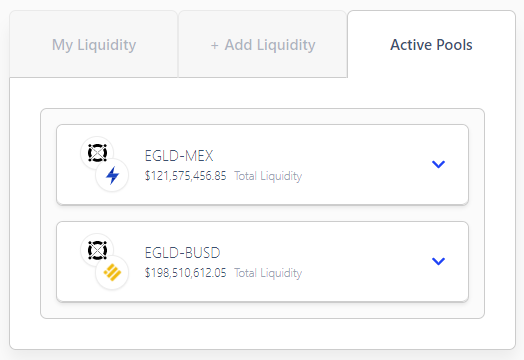
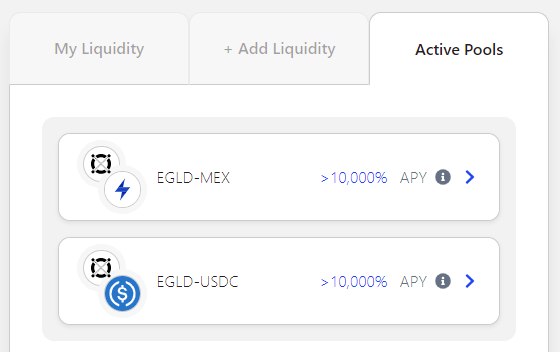
replaced BUSD with USDC

diff --git a/docs/maiar-dex-architecture/farms.md b/docs/maiar-dex-architecture/farms.md
@@ -6,7 +6,7 @@ sidebar_position: 4
 
 The liquidity pool tokens will be usable in the farming contracts. These users will be able to deposit their LP_ESDTs and will receive Semi Fungible tokens which will represent their farming position. These farms will earn extra yield for these users.
 
-**There will be ONE farm PER each liquidity token (LP_EGLD_MEX, LP_EGLD_BUSD) and one farm where users can enter with MEX.**
+**There will be ONE farm PER each liquidity token (LP_EGLD_MEX, LP_EGLD_USDC) and one farm where users can enter with MEX.**
 
 The process of staking and claiming rewards would be the following for those who **stake LP Tokens**:
 
@@ -29,7 +29,7 @@ The idea is to maintain a MexPerShare accumulator. At each block, we compute the
 
 ## Locking the rewards for a long period of time
 
-MEX rewards can come from 3 pools: EGLD/MEX farm, EGLD/BUSD farm and MEX farm. if you choose to lock the rewards (optionally) you will receive **double APR**.
+MEX rewards can come from 3 pools: EGLD/MEX farm, EGLD/USDC farm and MEX farm. if you choose to lock the rewards (optionally) you will receive **double APR**.
 
 Locking rewards is easy, we enhance the experience further by enabling the locked rewards to be used for further farming or liquidity providing. So we will make the whole system in a few steps. The locking period is as follows: you will receive 16.66% per month after one year. So in the first year there will be no unlocking, and after this, it gradually unlocks after each month.
 
